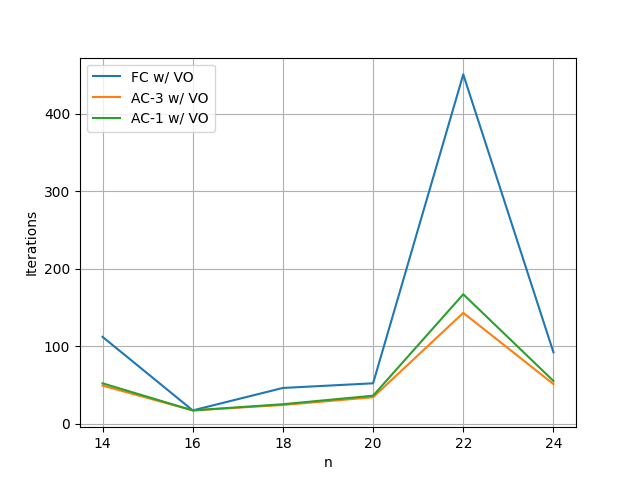
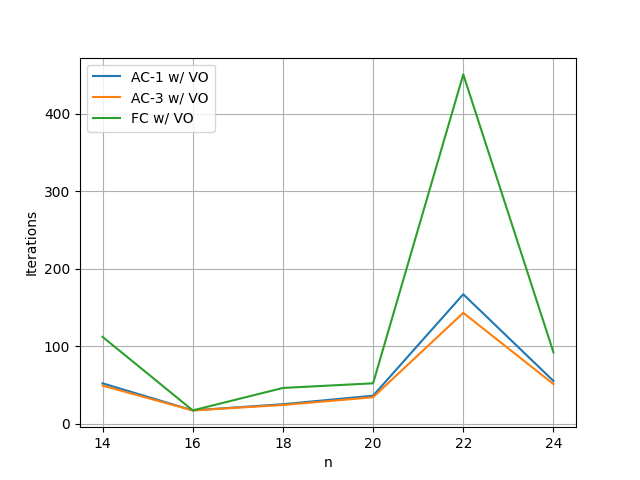
Queen plots cleanup

diff --git a/Problems/queens/scripts/plot_iterations.py b/Problems/queens/scripts/plot_iterations.py
@@ -31,11 +31,12 @@ flag_labels = {
 
 # Generate the plot
 n_values_int = list(map(int, n_values))  # Convert n values from string to integers
-for opt, results in plot_data.items():
-    label = flag_labels.get(opt, "AC-3 w/ VO")  # Use the mapping to get descriptive labels
-    plt.plot(n_values_int, results, label=label.replace("_", " ").strip())
+for opt in flag_labels.keys():  # Iterate in the order defined in flag_labels
+    results = plot_data.get(opt, [])
+    if results:  # Check if there are results to plot for this option
+        label = flag_labels[opt]  # Use the descriptive label from flag_labels
+        plt.plot(n_values_int, results, label=label.replace("_", " ").strip())
 
-# plt.title("N-Queens (Averaged, 5 Runs)")
 plt.xlabel("n")
 plt.ylabel("Iterations")
 plt.xticks(n_values_int)  # Set x-axis ticks to the correct problem sizes
